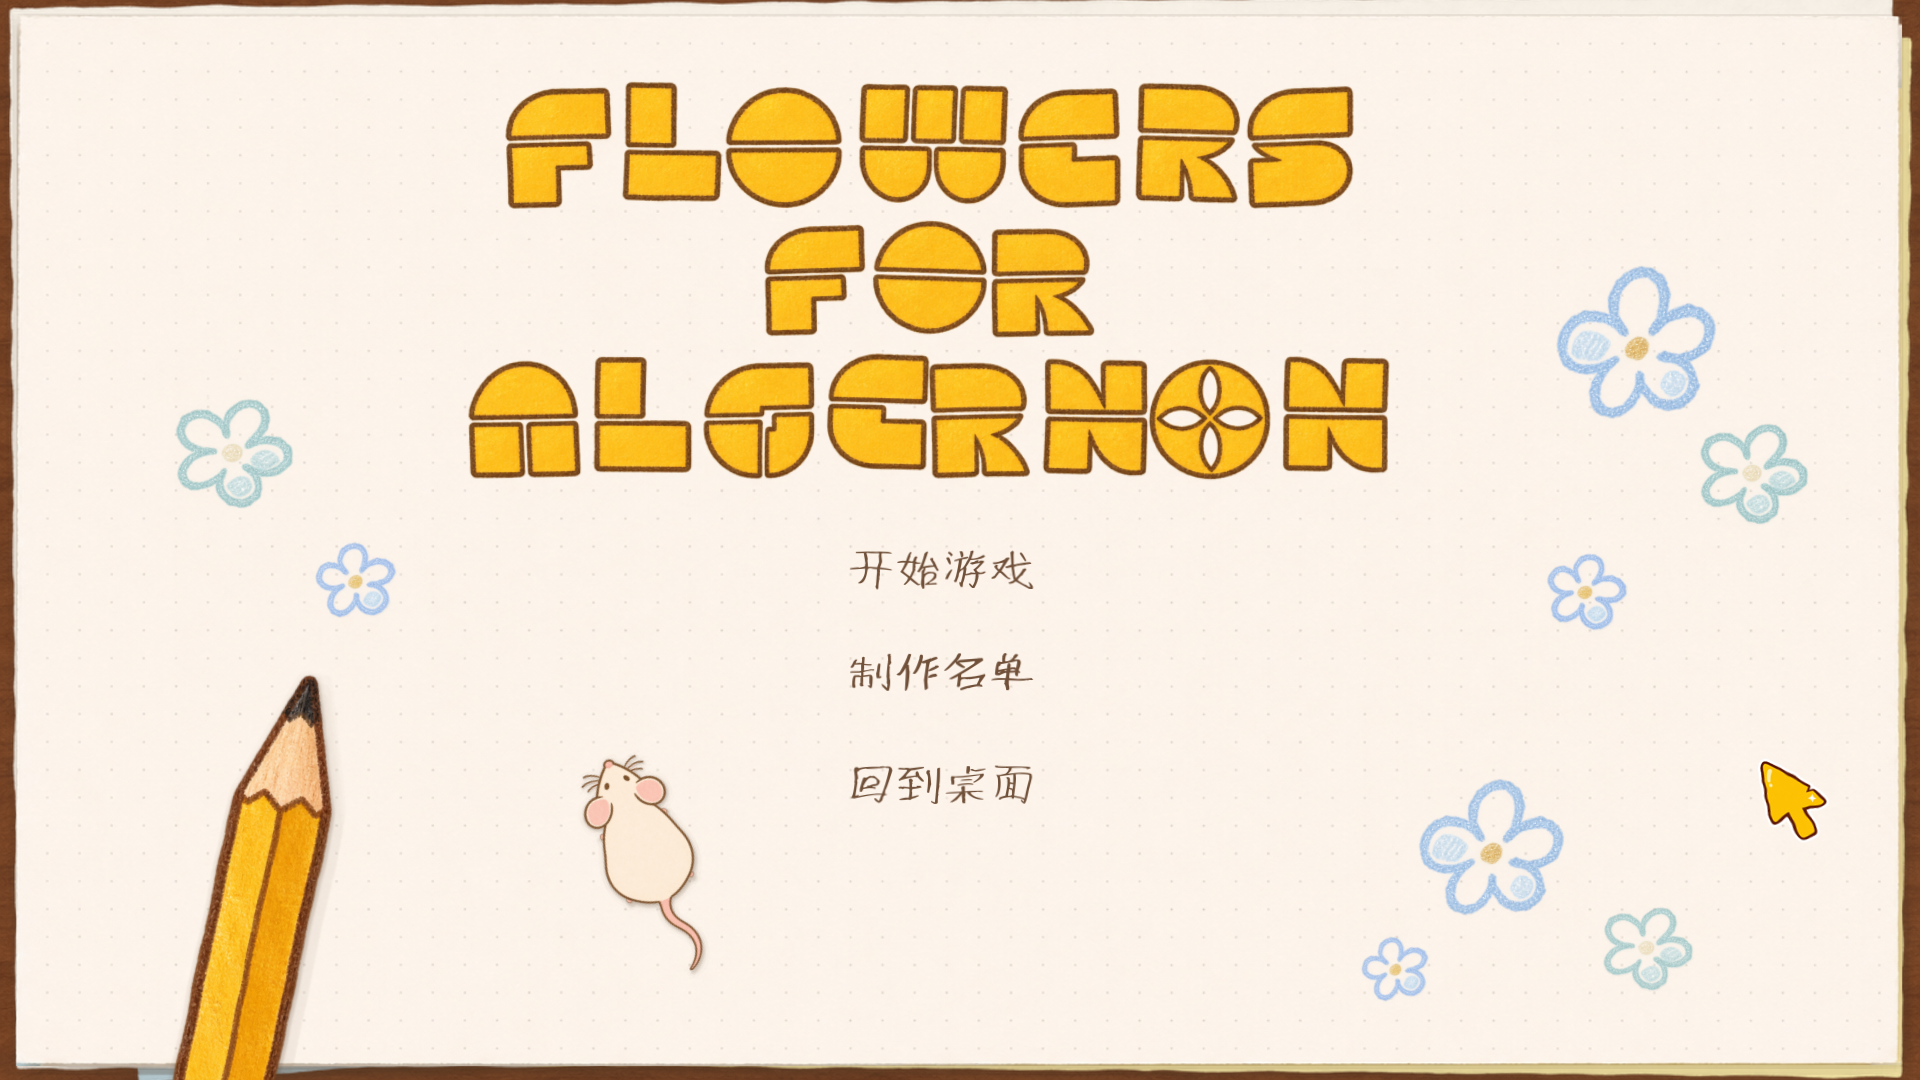
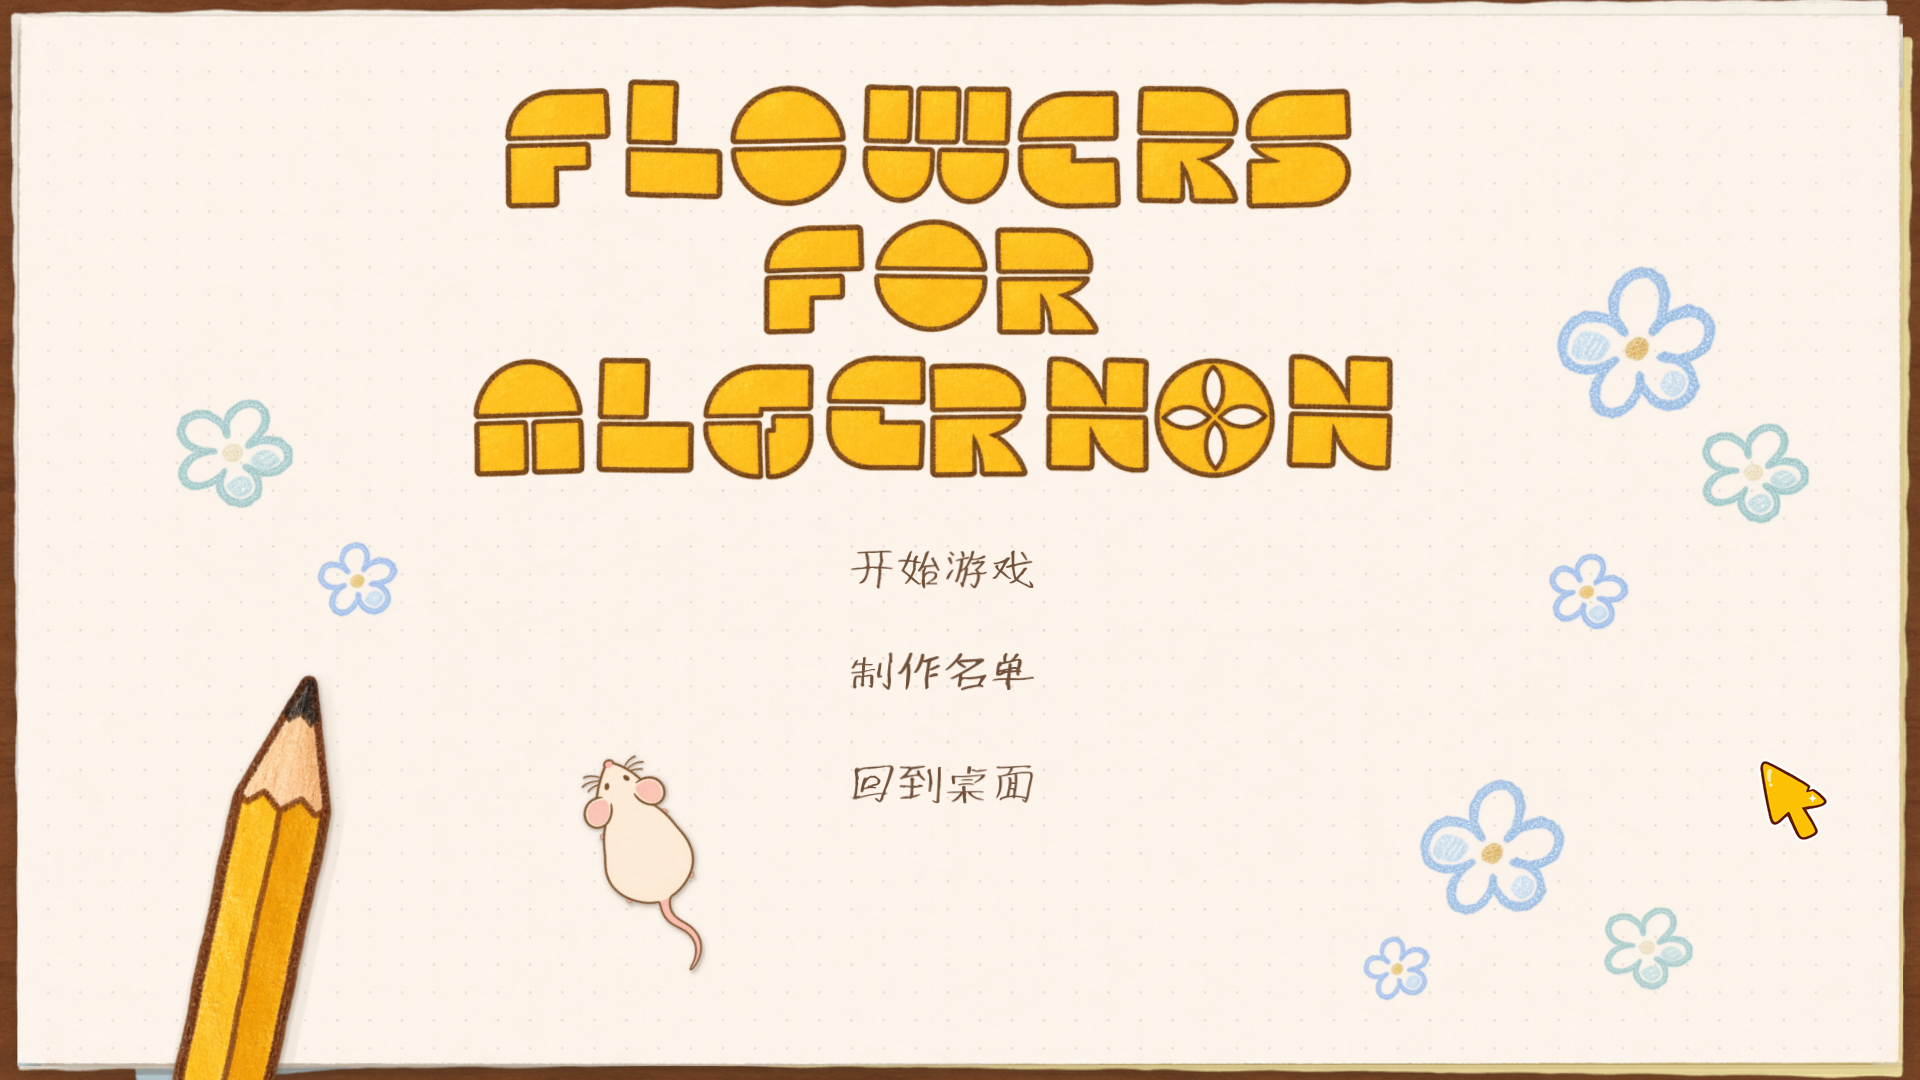
fix(menu): reveal a little more desk above the paper stack

diff --git a/docs/MAIN_MENU_20261120.md b/docs/MAIN_MENU_20261120.md
@@ -4,7 +4,7 @@
 
 ## 本轮结果
 
-主菜单保持 1920×1080、16:9 全屏。主纸居中等比放大，标题和中文字保留原来的位置与大小。深暖木桌只在窄边和局部边角出现；左侧下层纸稍内收，多露出一点桌面。原有黄色纸层继续留在右下，蓝纸是额外的一张，只在左下露出小角。
+主菜单保持 1920×1080、16:9 全屏。主纸居中等比放大，标题和中文字保留原来的位置与大小。深暖木桌只在窄边和局部边角出现；左侧下层纸稍内收，多露出一点桌面。后续微调将下层白纸上沿收回约 4px，补回顶部木纹，保留底边和蓝纸小角，主纸及文字位置不变。原有黄色纸层继续留在右下，蓝纸是额外的一张，只在左下露出小角。
 
 纸层缺口已改为完整下层纸张交叠：每张独立错相微动，内部不做三角硬裁切。纸边保持连续，纸与纸之间有窄阴影，纸叠在木桌上有更柔和、较深的投影。主纸淡点阵保留；胶带、手部、查理插画、光斑和半屏明暗均已移除。
 
@@ -42,7 +42,7 @@
 | check_quit.gd | 1280×720 实际点击退出、取消、再次退出、确认，正常关闭 |
 | check_startup.gd | MainMenu.tscn 默认入口；全屏 mode=3，物理 2560×1600、逻辑 1920×1080 |
 
-最新日志与结果保存在本机 .verification/main-menu/。主要原生截图：docs/screenshots/main_menu/menu-final.png、pencil-hop.png、credits-note-final.png、connected-tears-notes.png、paper-ink-cutaways.png、cursor-first-frame.png。没有以编辑器预览代替运行。
+最新日志与结果保存在本机 .verification/main-menu/。顶部微调另实际运行复用了 15 项纸层检查，全部通过；check-top-margin.log 记录了同帧顶部露出增加，未重跑与位置无关的游戏逻辑。主要原生截图：docs/screenshots/main_menu/menu-final.png、pencil-hop.png、credits-note-final.png、connected-tears-notes.png、paper-ink-cutaways.png、cursor-first-frame.png。没有以编辑器预览代替运行。
 
 ## 素材与提示词
 
